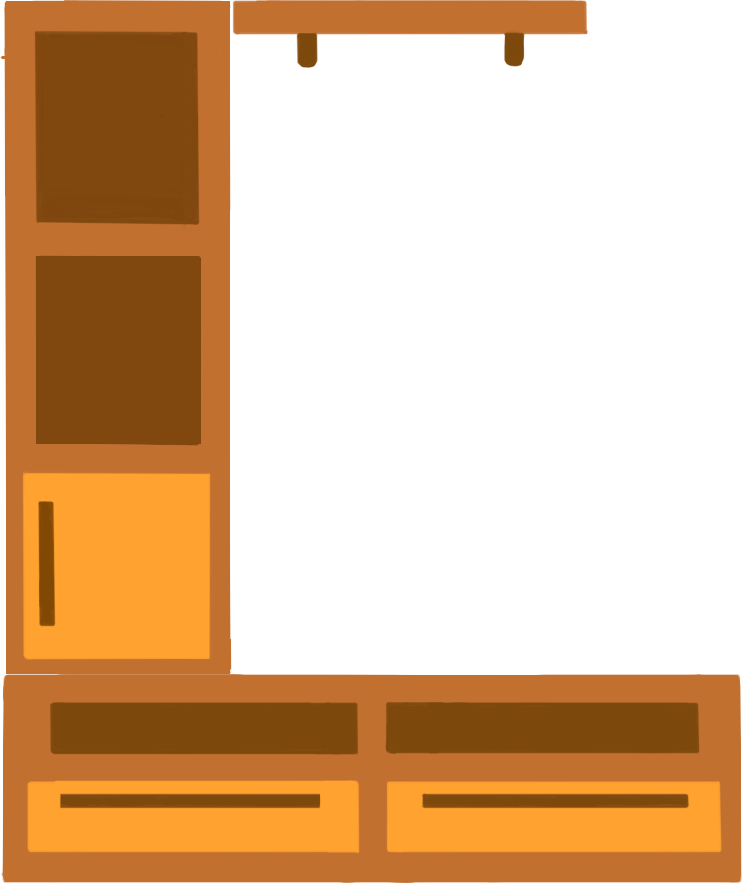
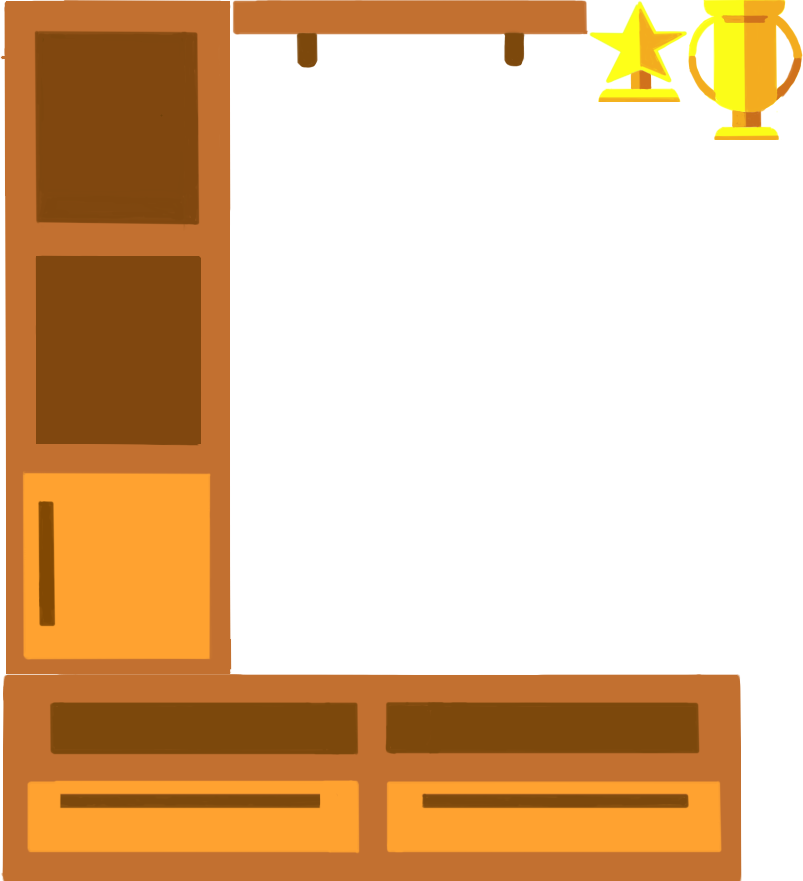
场景添加物品

diff --git a/myweb/js/main.js b/myweb/js/main.js
@@ -15,7 +15,7 @@ window.onload = function(){
 
     var cursors = null;
 
-    var game = new Phaser.Game(GAMEWIDTH, GAMEHEIGHT, Phaser.AUTO, 'stageContainer', {
+    var game = new Phaser.Game(WORLDWIDTH, WORLDHEIGHT, Phaser.AUTO, 'stageContainer', {
         preload: preload,
         create: create,
         update: update,
@@ -51,7 +51,9 @@ window.onload = function(){
         ground = null;
     var tvstand = null,
         bookcase = null,
-        bookrack = null;
+        bookrack = null,
+        trophy1 = null,
+        trophy2 = null;
 
     //create object
     function create(){
@@ -60,6 +62,7 @@ window.onload = function(){
 
         game.world.setBounds(0, 0, WORLDWIDTH, WORLDHEIGHT);
         game.scale.scaleMode = Phaser.ScaleManager.EXACT_FIT;
+        game.camera.setPosition(game.world.centerX,game.world.centerY);
 
         wall = game.add.tileSprite(0,0,wall_width,wall_height,'ground','wall.png');
 
@@ -88,7 +91,19 @@ window.onload = function(){
         bookrack.anchor.set(0.5,1);
         game.add.tween(bookrack).to({y:300},1000,Phaser.Easing.Quartic.Out,true);
         game.physics.enable(bookrack,Phaser.Physics.ARCADE);
+        bookrack.body.immovable = true;
         bookrack.body.allowGravity = false;
+
+        trophy1 = game.add.sprite(bookrack.x+130,0,'furniture','trophy1.png');
+        trophy1.anchor.set(0.5,1);
+        game.physics.enable(trophy1,Phaser.Physics.ARCADE);
+        trophy1.body.bounce.y = 0.3;
+        trophy1.body.allowGravity = false;
+
+        trophy2 = game.add.sprite(bookrack.x+20,0,'furniture','trophy2.png');
+        trophy2.anchor.set(0.5,1);
+        game.physics.enable(trophy2,Phaser.Physics.ARCADE);
+        trophy2.body.bounce.y = 0.3;
 
         cursors = game.input.keyboard.createCursorKeys();
     }
@@ -97,8 +112,14 @@ window.onload = function(){
     function update(){
         game.physics.arcade.collide(ground, [tvstand,bookcase]);
 
+        game.physics.arcade.collide(bookrack, [trophy1,trophy2]);
+
         if(tvstand.y > 200 && !bookcase.body.allowGravity){
             bookcase.body.allowGravity = true;
+        }
+
+        if(trophy2.y > 50 && !trophy1.body.allowGravity){
+            trophy1.body.allowGravity = true;
         }
 
 
@@ -123,7 +144,7 @@ window.onload = function(){
 
     //stage render
     function render(){
-        game.debug.cameraInfo(game.camera, 500, 32);
+        //game.debug.cameraInfo(game.camera, 500, 32);
         // game.debug.body(tvstand);
     }
 };

diff --git a/myweb/index.html b/myweb/index.html
@@ -7,10 +7,10 @@
     <title>4EVER</title>
     <link rel="shortcut icon" href=" img/logo/favicon.ico" />
     <link rel="stylesheet" href="css/style.css">
-    <script src="//cdn.jsdelivr.net/npm/phaser-ce@2.9.2"></script>
 </head>
 <body>
 <div id="stageContainer"></div>
+<script src="//cdn.jsdelivr.net/npm/phaser-ce@2.9.2"></script>
 <script src="js/main.js"></script>
 </body>
 </html>
